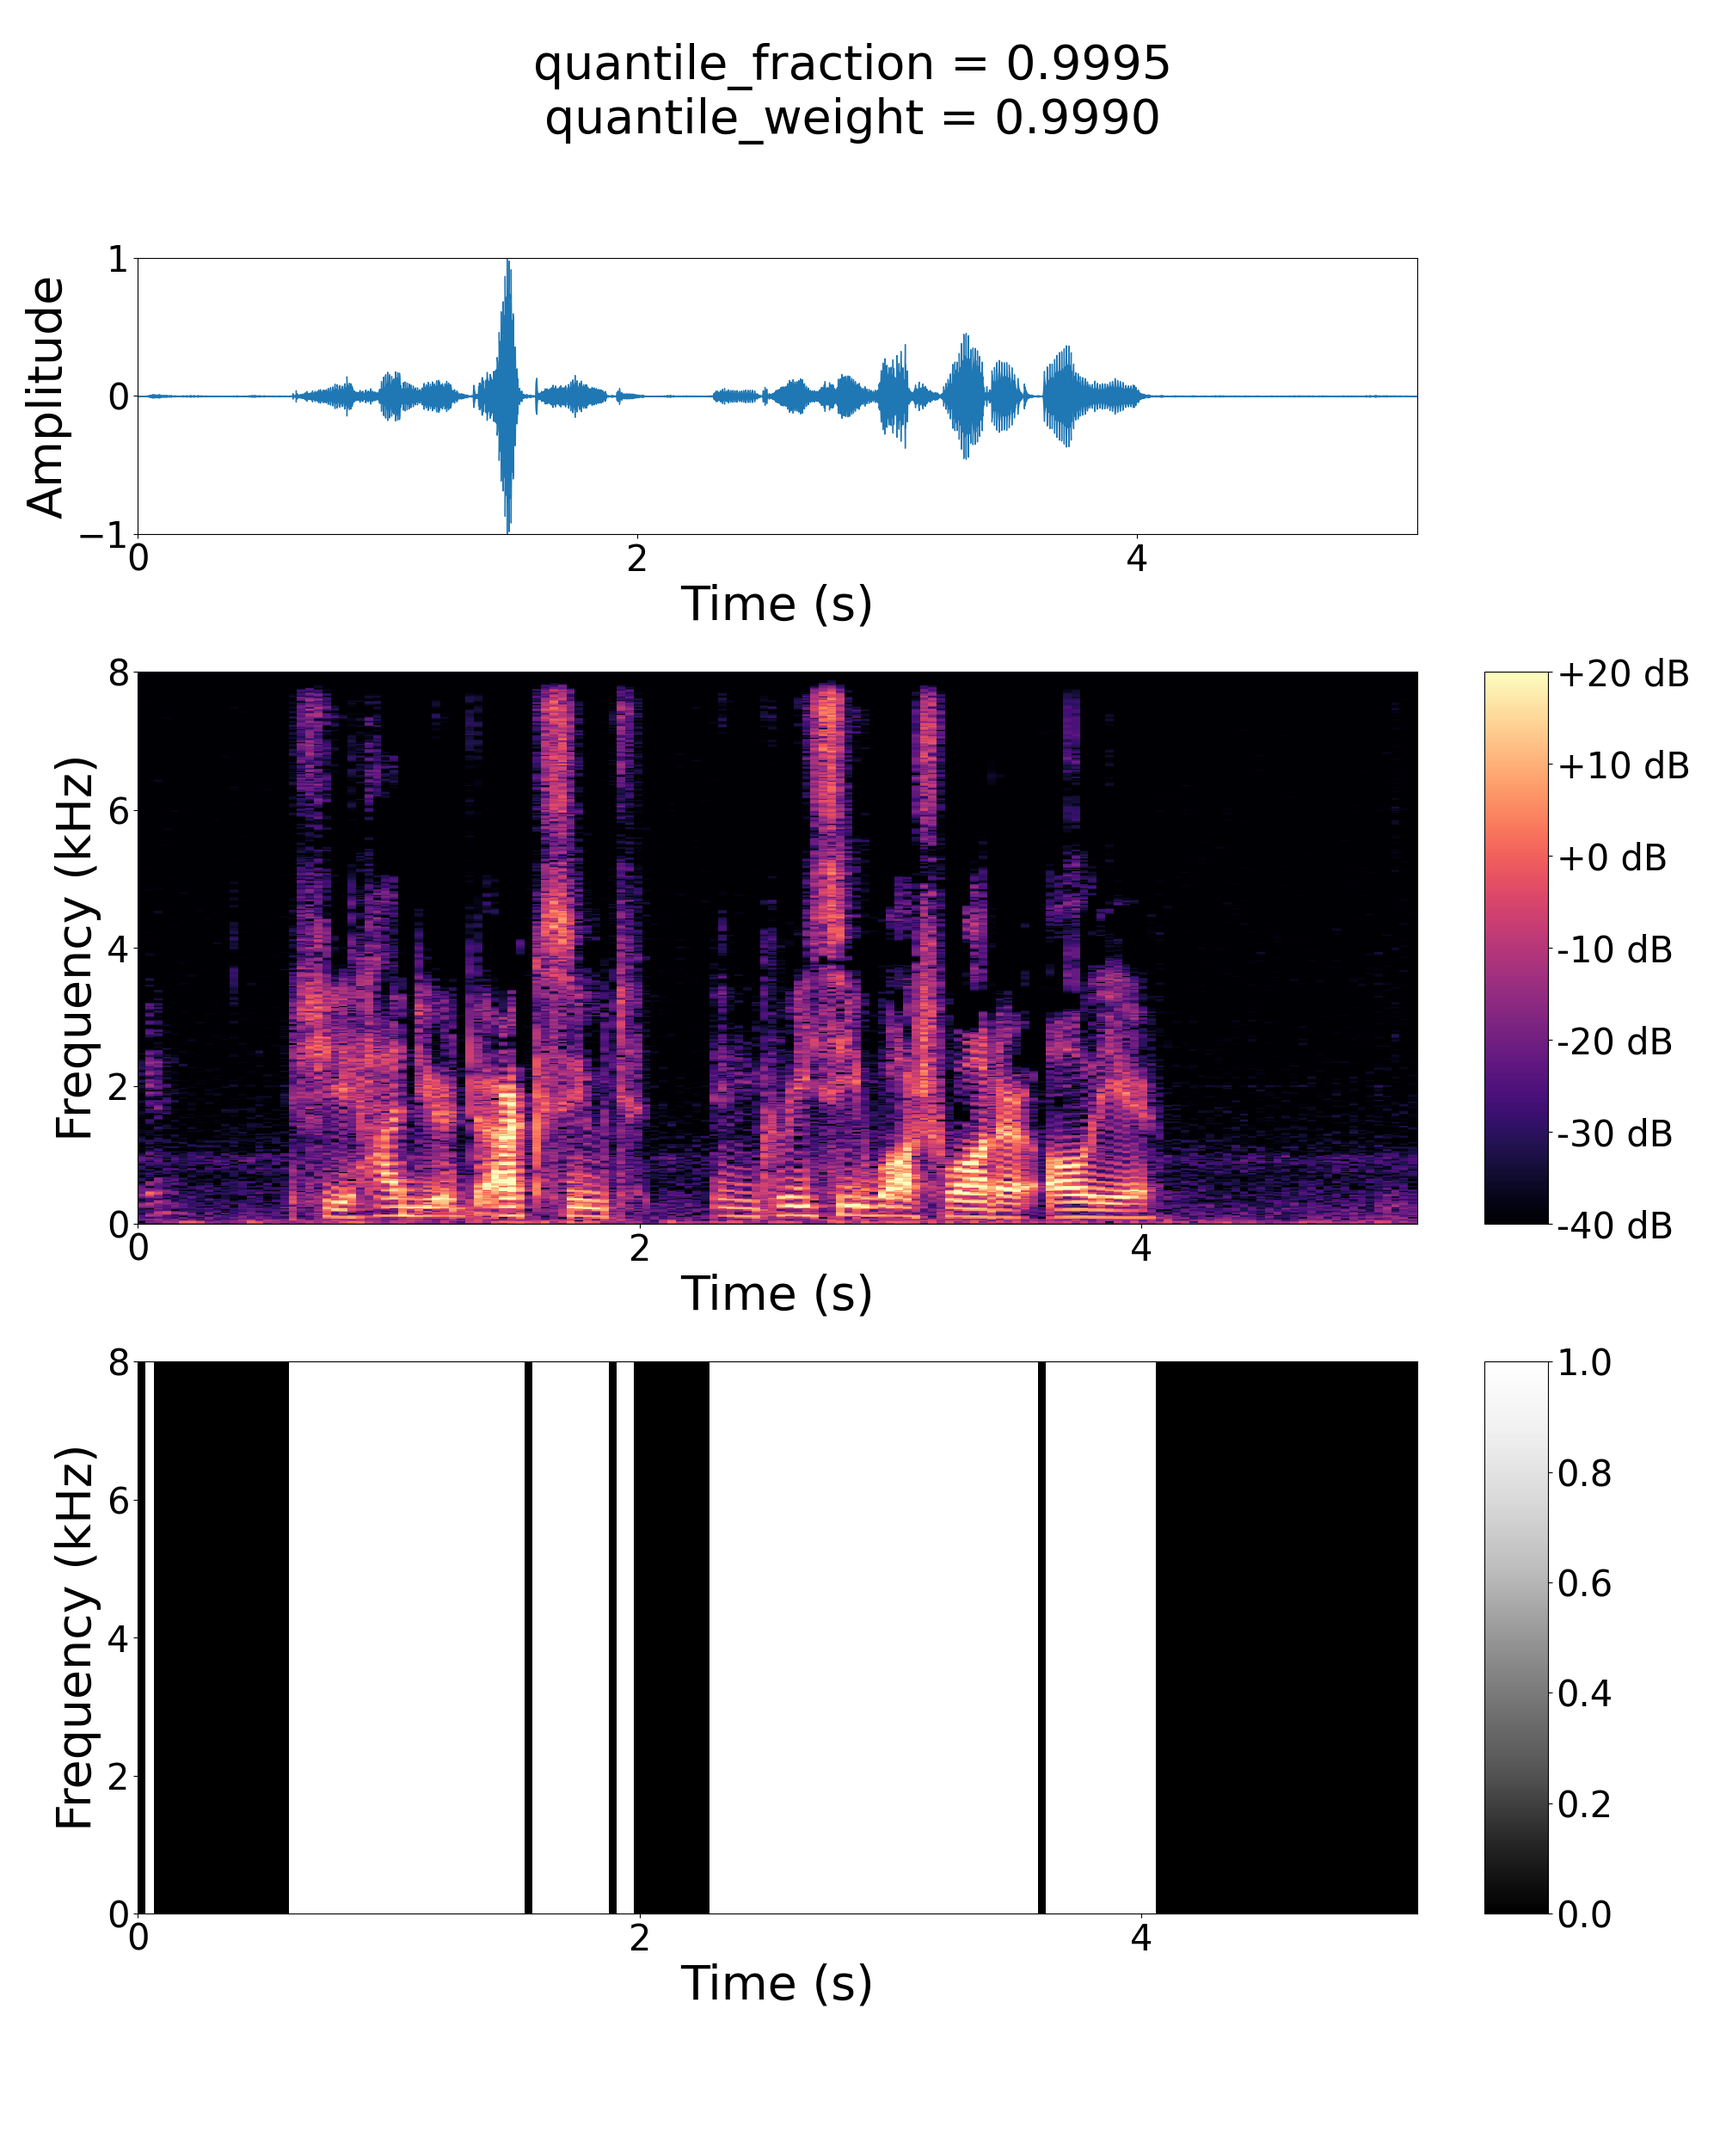
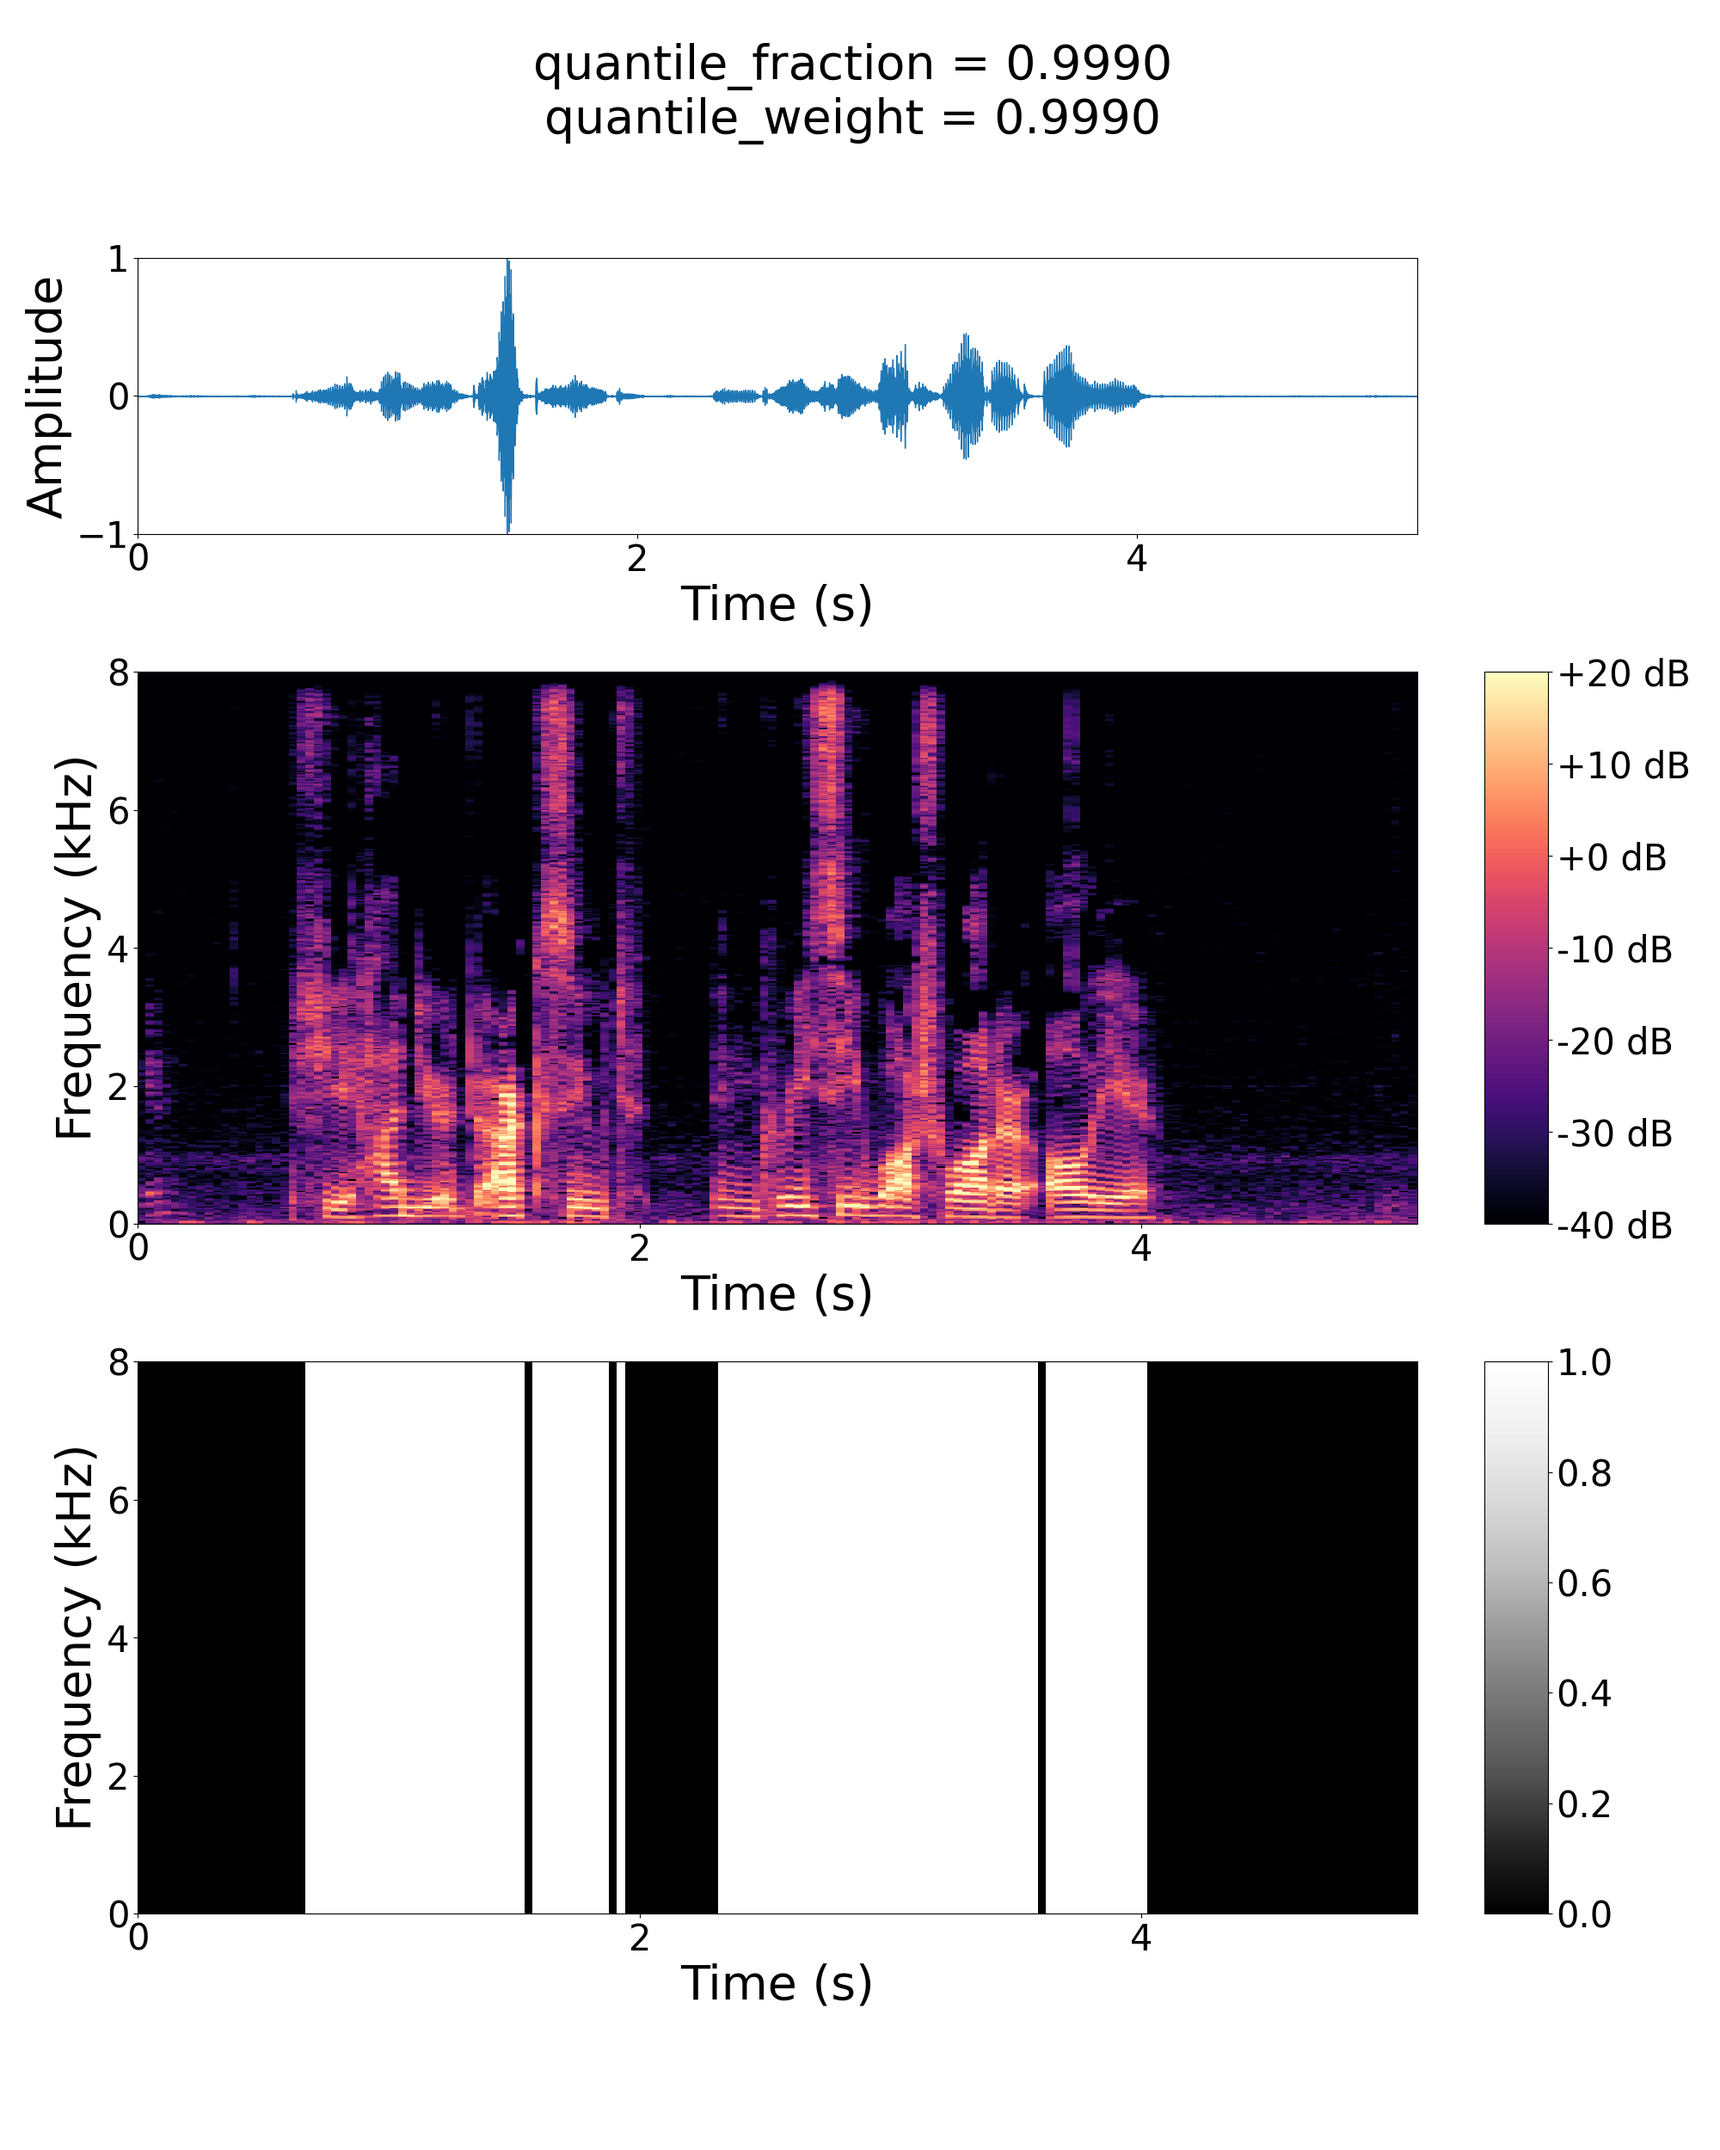
target ibm for NTCD-TIMIT

diff --git a/ntcd_scripts/visualization.py b/ntcd_scripts/visualization.py
@@ -32,8 +32,12 @@ pad_mode = 'reflect' # This argument is ignored if center = False
 pad_at_end = True # pad audio file at end to match same size after stft + istft
 dtype = 'complex64'
 
+# ## VAD
+# quantile_fraction = 0.999
+# quantile_weight = 0.999
+
 ## IBM
-quantile_fraction = 0.9995
+quantile_fraction = 0.999
 quantile_weight = 0.999
 
 ## Plot spectrograms
@@ -66,28 +70,28 @@ def main():
                     pad_at_end=pad_at_end,
                     dtype=dtype) # shape = (freq_bins, frames)
         
-        # # binary mask
-        # x_ibm = clean_speech_IBM(x_tf,
-        #                         quantile_fraction=quantile_fraction,
-        #                         quantile_weight=quantile_weight)
+        # binary mask
+        x_ibm = clean_speech_IBM(x_tf,
+                                quantile_fraction=quantile_fraction,
+                                quantile_weight=quantile_weight)
         
-        # compute only VAD
-        x_vad = clean_speech_VAD(x_tf,
-                        quantile_fraction=quantile_fraction,
-                        quantile_weight=quantile_weight)
-        x_vad = x_vad[0] # shape = (frames)
+        # # compute only VAD
+        # x_vad = clean_speech_VAD(x_tf,
+        #                 quantile_fraction=quantile_fraction,
+        #                 quantile_weight=quantile_weight)
+        # x_vad = x_vad[0] # shape = (frames)
 
-        # # Plot waveplot + spectrogram + binary mask
-        # fig = display_wav_spectro_mask(x, x_tf, x_ibm,
-        #                          fs=fs, vmin=vmin, vmax=vmax,
-        #                          wlen_sec=wlen_sec, hop_percent=hop_percent,
-        #                          xticks_sec=xticks_sec, fontsize=fontsize)
-        
-        # Plot waveplot + spectrogram + vad
-        fig = display_wav_spectro_mask(x, x_tf,x_vad,
+        # Plot waveplot + spectrogram + binary mask
+        fig = display_wav_spectro_mask(x, x_tf, x_ibm,
                                  fs=fs, vmin=vmin, vmax=vmax,
                                  wlen_sec=wlen_sec, hop_percent=hop_percent,
                                  xticks_sec=xticks_sec, fontsize=fontsize)
+        
+        # # Plot waveplot + spectrogram + vad
+        # fig = display_wav_spectro_mask(x, x_tf,x_vad,
+        #                          fs=fs, vmin=vmin, vmax=vmax,
+        #                          wlen_sec=wlen_sec, hop_percent=hop_percent,
+        #                          xticks_sec=xticks_sec, fontsize=fontsize)
 
         # signal_list = [
         #     [x, x_tf, x_ibm], # mixture: (waveform, tf_signal, no mask)
@@ -104,8 +108,8 @@ def main():
         fig.suptitle(title, fontsize=40)
 
         # Save figure
-        # output_path = output_data_dir + os.path.splitext(path)[0] + '_fig.png'
-        output_path = output_data_dir + os.path.splitext(path)[0] + '_fig_vad.png'
+        output_path = output_data_dir + os.path.splitext(path)[0] + '_fig_ibm.png'
+        # output_path = output_data_dir + os.path.splitext(path)[0] + '_fig_vad.png'
         if not os.path.exists(os.path.dirname(output_path)):
             os.makedirs(os.path.dirname(output_path))
         fig.savefig(output_path)

diff --git a/ntcd_scripts/create_train_set.py b/ntcd_scripts/create_train_set.py
@@ -39,7 +39,7 @@ pad_at_end = True # pad audio file at end to match same size after stft + istft
 dtype = 'complex64'
 
 ## Ideal binary mask
-quantile_fraction = 0.98
+quantile_fraction = 0.999
 quantile_weight = 0.999
 
 def main():
